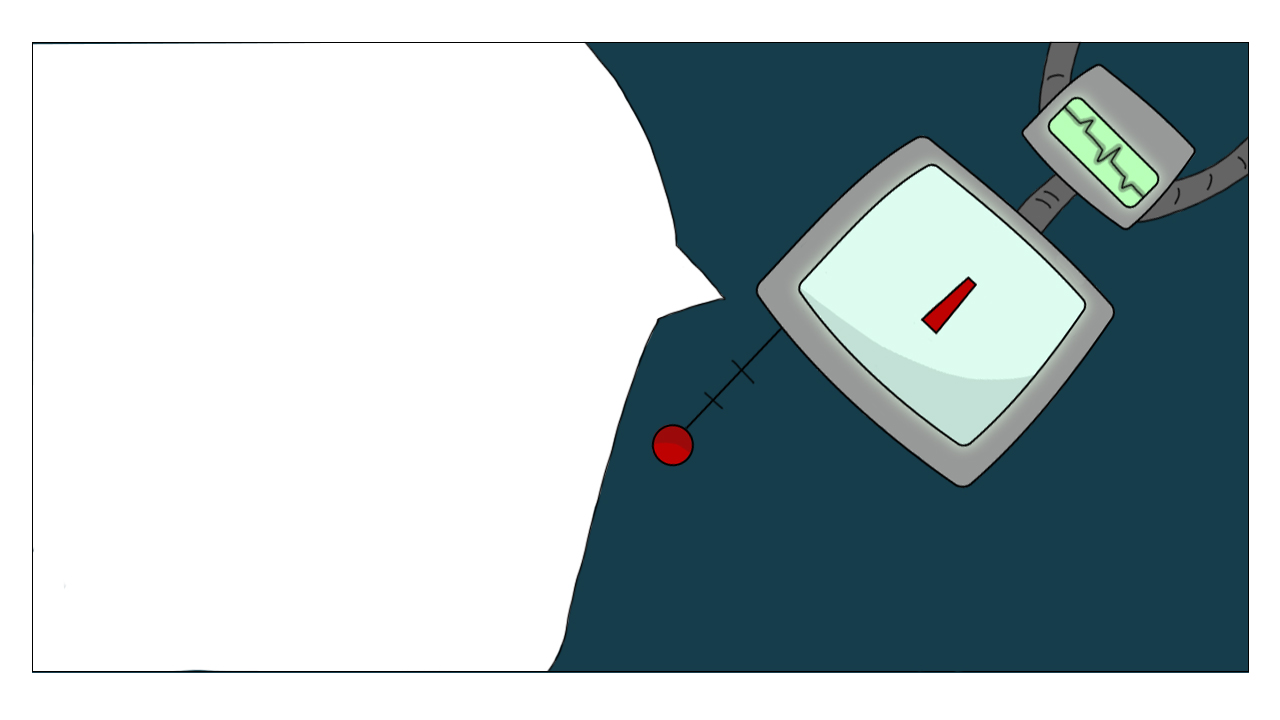
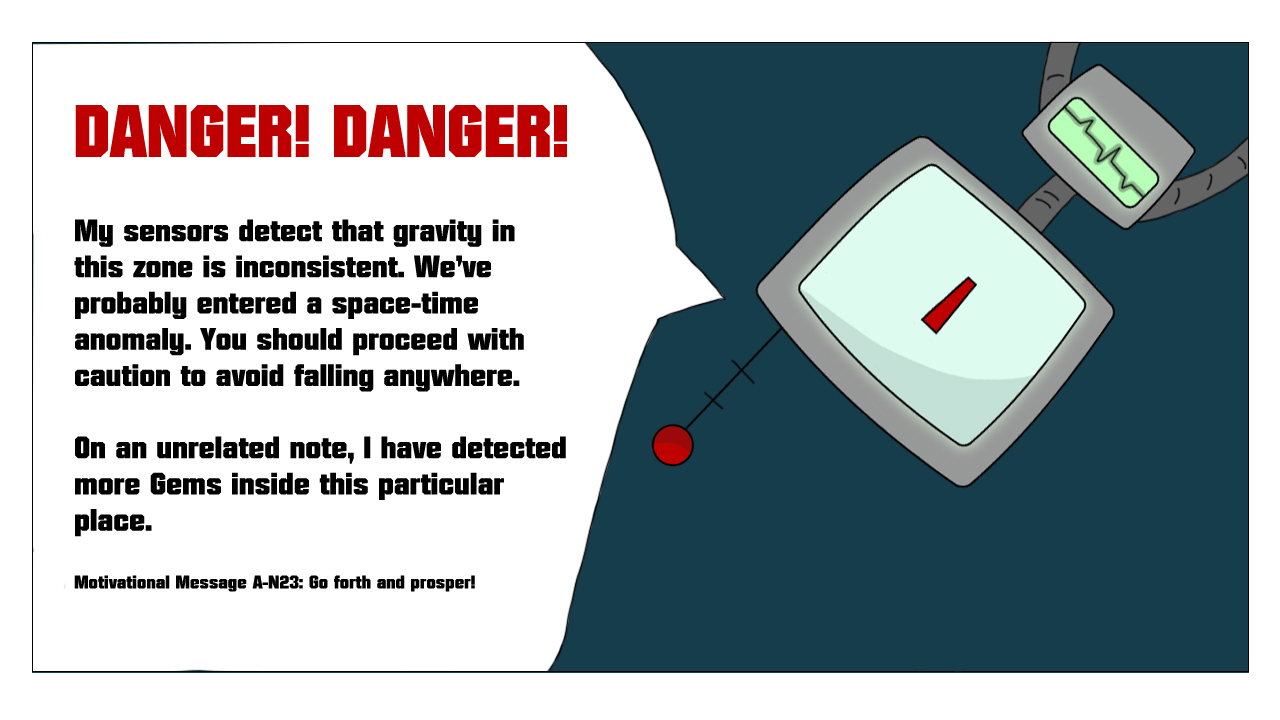
fin 1

diff --git a/app/src/main/java/mx/itesm/planetz/StoryScene.java b/app/src/main/java/mx/itesm/planetz/StoryScene.java
@@ -90,12 +90,12 @@ public class StoryScene extends BaseScene {
                 pathName = "Graphics/Story/CrashCourseIntoOblivion/";
                 break;
             case 2:
-                maxIndex = 4;
+                maxIndex = 5;
                 pathName = "Graphics/Story/BraveNewWorld/IntoTheWilderness/";
                 break;
             case 3:
                 pathName = "Graphics/Story/BraveNewWorld/NewtonRedefined/";
-                maxIndex = 4;
+                maxIndex = 5;
                 break;
             case 4:
                 pathName = "Graphics/Story/TheEnd/";

diff --git a/app/src/main/java/mx/itesm/planetz/AdventureLevelThreeScene.java b/app/src/main/java/mx/itesm/planetz/AdventureLevelThreeScene.java
@@ -42,7 +42,7 @@ public class AdventureLevelThreeScene extends BaseScene {
     private PhysicsWorld physicsWorld;
     // -------------- Gravedad -----------------------------------
     private float GRAVITY_X = 0f;
-    private float GRAVITY_Y = -50f;
+    private float GRAVITY_Y = -25f;
 
     // -------------- Escucha los contactos ----------------------
     private ContactListener contactListener;
